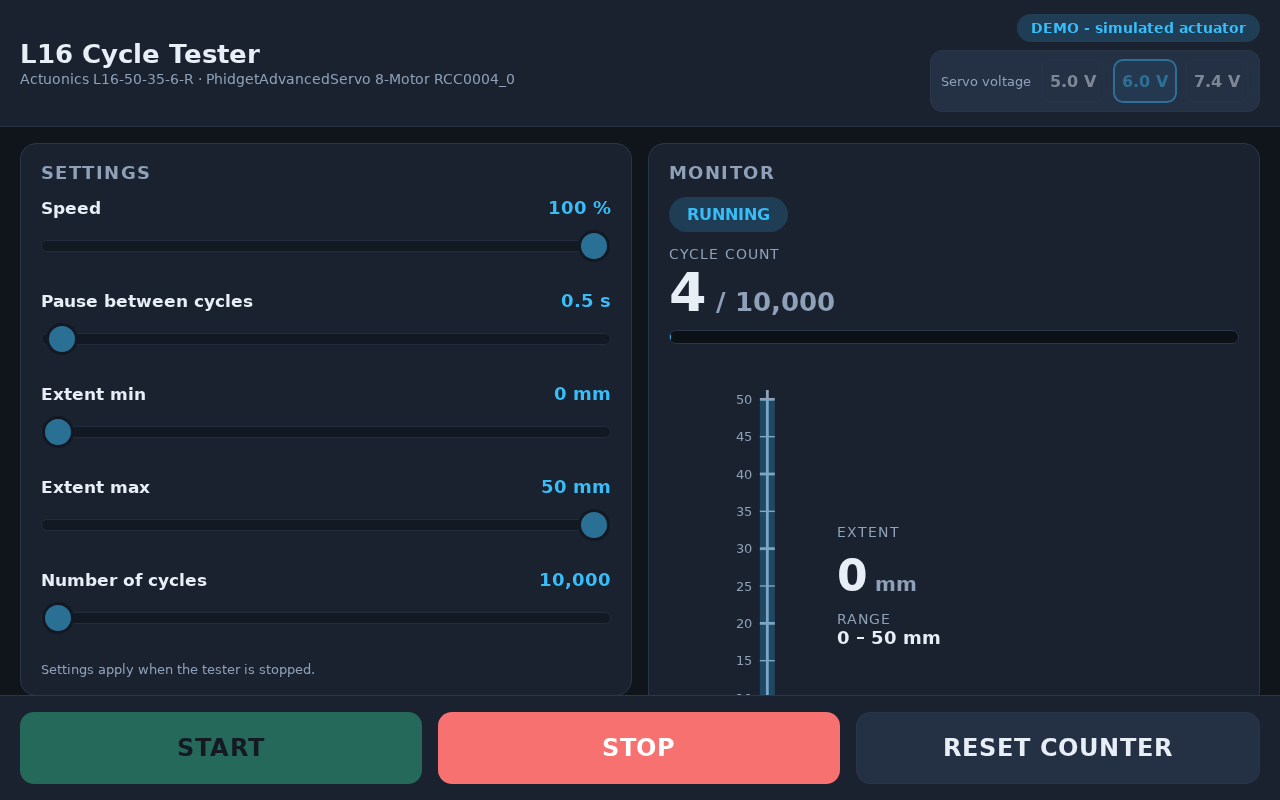
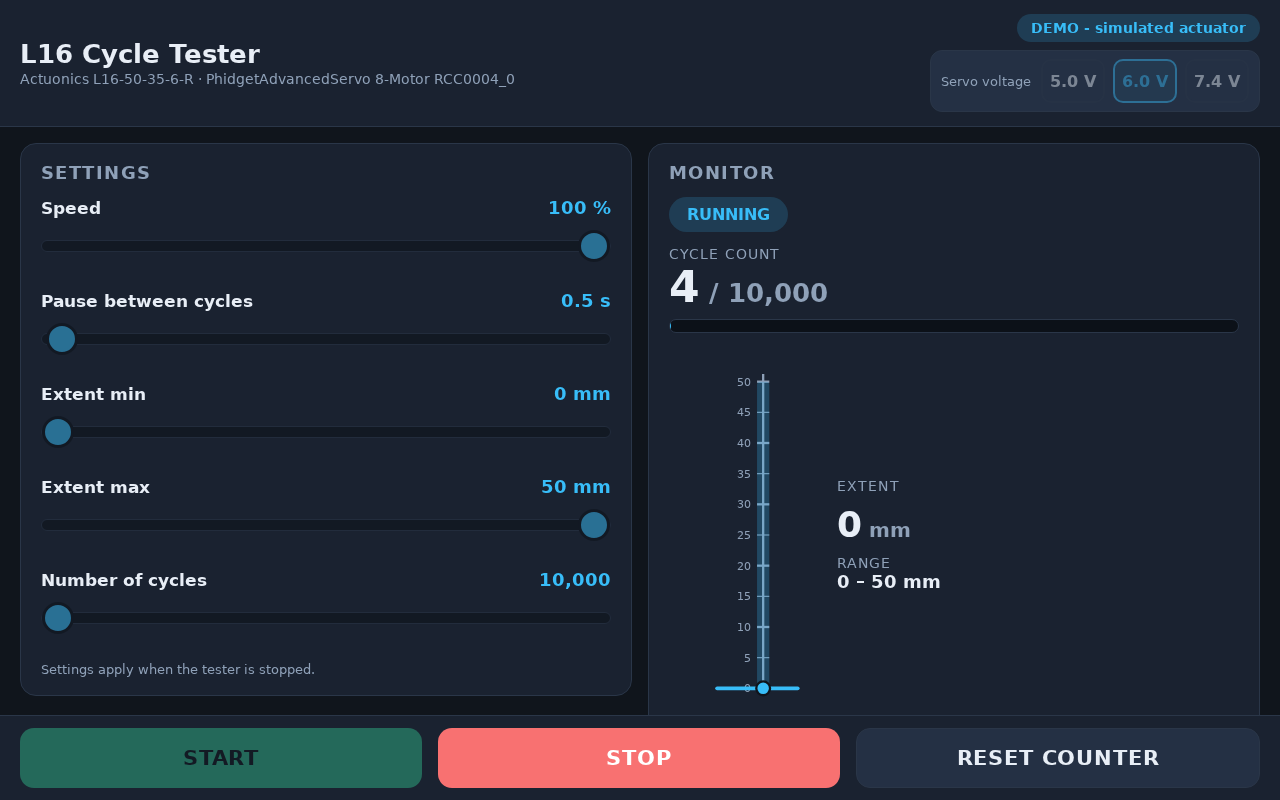
Fix dashboard layout: fixed-height page, scrollable panels, non-overlapping control bar; regenerate demo screenshots

diff --git a/static/style.css b/static/style.css
@@ -26,7 +26,8 @@ html, body {
 body {
   display: flex;
   flex-direction: column;
-  min-height: 100vh;
+  height: 100vh;
+  overflow: hidden;
 }
 
 header {
@@ -88,6 +89,8 @@ h1 { font-size: 26px; margin: 0; }
 
 main {
   flex: 1;
+  min-height: 0;
+  overflow-y: auto;
   display: grid;
   grid-template-columns: minmax(340px, 1fr) minmax(340px, 1fr);
   gap: 16px;
@@ -179,7 +182,7 @@ input[type="range"]::-moz-range-thumb {
 
 .counter { margin-bottom: 18px; }
 .counter-label { color: var(--muted); font-size: 14px; text-transform: uppercase; letter-spacing: 0.08em; }
-.counter-value { font-size: 54px; font-weight: 800; font-variant-numeric: tabular-nums; line-height: 1.15; }
+.counter-value { font-size: 44px; font-weight: 800; font-variant-numeric: tabular-nums; line-height: 1.15; }
 .counter-target { color: var(--muted); font-size: 26px; font-weight: 600; }
 
 .progress {
@@ -193,29 +196,27 @@ input[type="range"]::-moz-range-thumb {
 #progress-bar { height: 100%; width: 0%; background: var(--accent); transition: width 0.2s linear; }
 
 .gauge-row { display: flex; gap: 18px; align-items: center; }
-#gauge { width: 150px; height: 480px; max-height: 56vh; flex: 0 0 auto; }
+#gauge { width: 150px; height: 480px; max-height: 46vh; flex: 0 0 auto; }
 
 .gauge-side { display: flex; flex-direction: column; gap: 10px; }
 .pos-label, .range-label { color: var(--muted); font-size: 14px; text-transform: uppercase; letter-spacing: 0.08em; }
-.pos-value { font-size: 44px; font-weight: 800; font-variant-numeric: tabular-nums; }
+.pos-value { font-size: 36px; font-weight: 800; font-variant-numeric: tabular-nums; }
 .pos-value .unit { font-size: 20px; color: var(--muted); font-weight: 600; }
 #range-out { color: var(--text); font-size: 18px; font-weight: 700; text-transform: none; letter-spacing: 0; }
 
 .controls {
+  flex: 0 0 auto;
   display: flex;
   gap: 16px;
-  padding: 16px 20px calc(16px + env(safe-area-inset-bottom));
+  padding: 12px 20px calc(12px + env(safe-area-inset-bottom));
   background: var(--panel);
   border-top: 1px solid var(--panel-edge);
-  position: sticky;
-  bottom: 0;
-  z-index: 10;
 }
 
 .btn {
   flex: 1;
-  min-height: 72px;
-  font-size: 24px;
+  min-height: 60px;
+  font-size: 21px;
   font-weight: 800;
   letter-spacing: 0.04em;
   border-radius: 14px;
